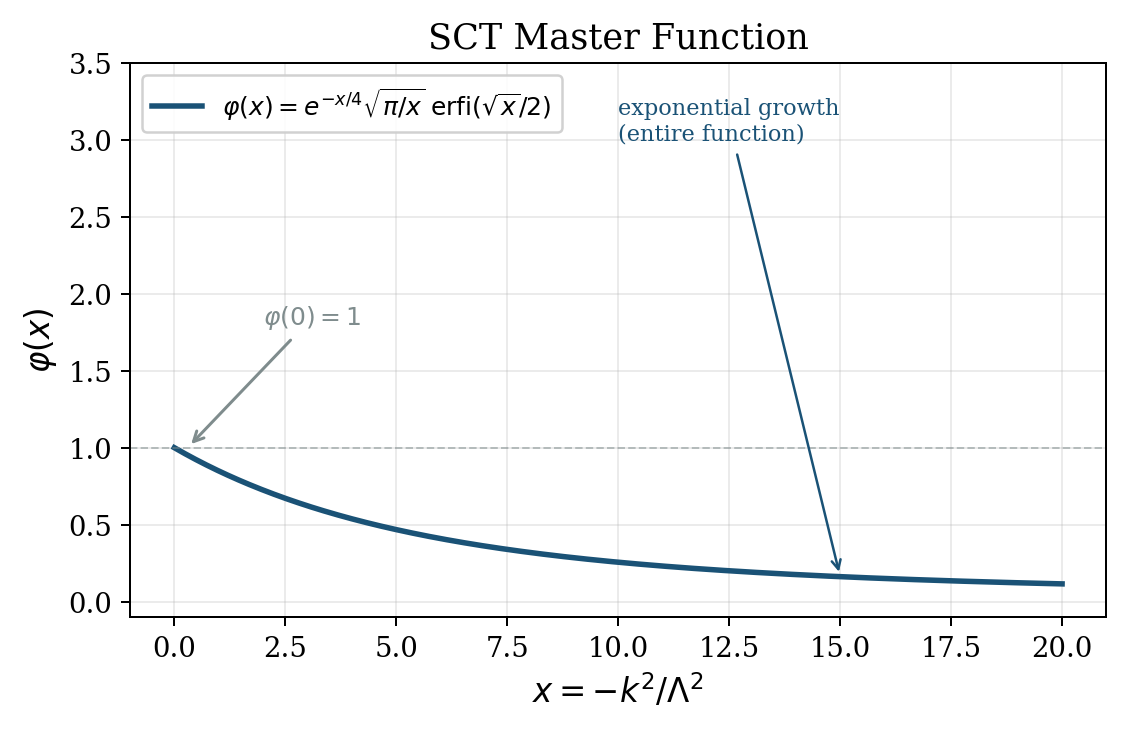
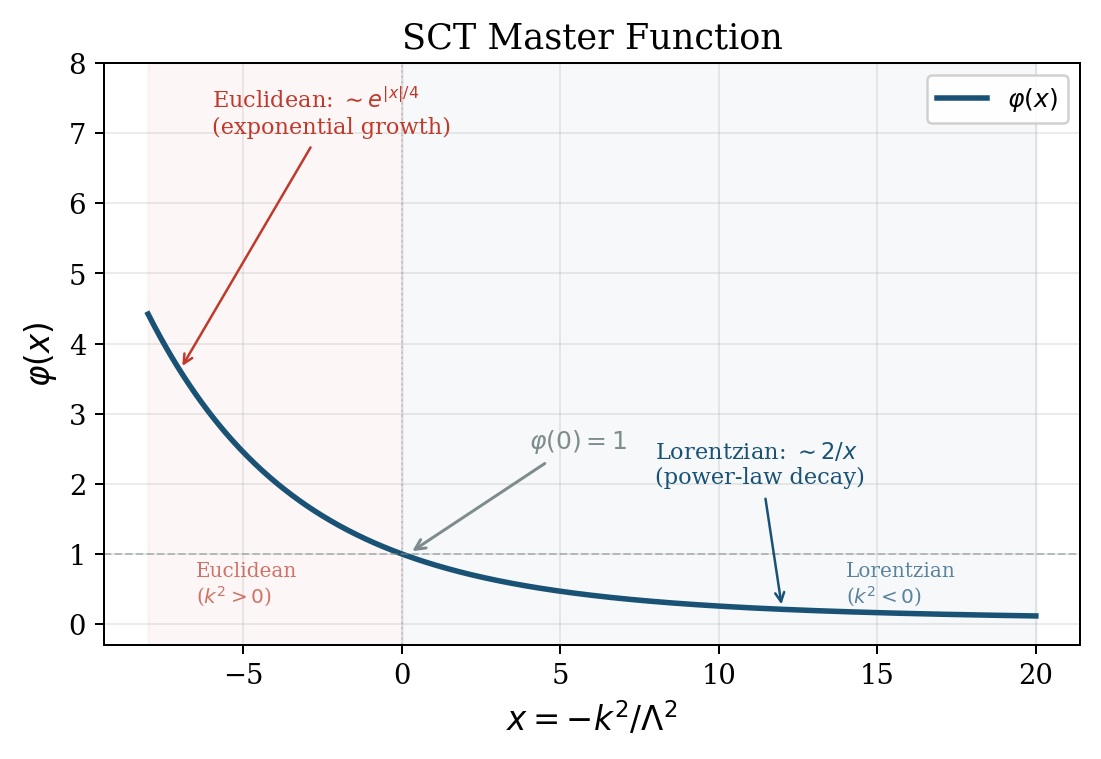
Fix scientific accuracy of README figures
- Master function: show both Euclidean (x<0, exponential growth) and
  Lorentzian (x>0, power-law decay ~2/x) regimes instead of incorrectly
  labeling the decay region as "exponential growth"
- Newtonian potential: add explicit xi=0 label (m_0 depends on Higgs
  non-minimal coupling parameter)
- SM contributions: plot h_C(x) directly instead of x*h_C(x) with
  incorrect beta_W reference lines; remove misleading horizontal guides
- Fix annotation overlap with legend in master function plot

diff --git a/docs/figures/generate_readme_figures.py b/docs/figures/generate_readme_figures.py
@@ -4,7 +4,7 @@ import numpy as np
 import matplotlib
 matplotlib.use('Agg')
 import matplotlib.pyplot as plt
-from scipy.special import erfi
+from scipy.special import erfi, erf
 from pathlib import Path
 
 OUT = Path(__file__).parent
@@ -32,35 +32,65 @@ SCT_GRAY = '#7f8c8d'
 
 
 # ===== Helper: master function =====
-def phi(x):
-    """SCT master function: phi(x) = e^{-x/4} sqrt(pi/x) erfi(sqrt(x)/2)."""
+def phi_real(x):
+    """SCT master function for real x (positive and negative).
+
+    phi(x) = e^{-x/4} sqrt(pi/x) erfi(sqrt(x)/2)  for x > 0
+    phi(0) = 1
+    phi(-y) = e^{y/4} sqrt(pi/y) erf(sqrt(y)/2)    for y > 0
+    """
     x = np.asarray(x, dtype=float)
     result = np.ones_like(x)
-    mask = x > 1e-10
-    xm = x[mask]
-    result[mask] = np.exp(-xm / 4) * np.sqrt(np.pi / xm) * erfi(np.sqrt(xm) / 2)
+
+    # Positive x: use erfi
+    mask_pos = x > 1e-10
+    xp = x[mask_pos]
+    result[mask_pos] = np.exp(-xp / 4) * np.sqrt(np.pi / xp) * erfi(np.sqrt(xp) / 2)
+
+    # Negative x: phi(-y) = e^{y/4} sqrt(pi/y) erf(sqrt(y)/2)
+    mask_neg = x < -1e-10
+    y = -x[mask_neg]
+    result[mask_neg] = np.exp(y / 4) * np.sqrt(np.pi / y) * erf(np.sqrt(y) / 2)
+
     return result
 
 
 # ===== 1. Master function phi(x) =====
-fig, ax = plt.subplots(figsize=(7, 4))
-x = np.linspace(0, 20, 500)
-y = phi(x)
+# Show both Euclidean (x<0, growth) and Lorentzian (x>0, decay) regimes.
+fig, ax = plt.subplots(figsize=(7, 4.2))
+
+x = np.linspace(-8, 20, 600)
+y = phi_real(x)
 
 ax.plot(x, y, color=SCT_BLUE, linewidth=2.2,
-        label=r'$\varphi(x) = e^{-x/4}\sqrt{\pi/x}\;\mathrm{erfi}(\sqrt{x}/2)$')
+        label=r'$\varphi(x)$')
 ax.axhline(1, color=SCT_GRAY, linestyle='--', linewidth=0.8, alpha=0.5)
+ax.axvline(0, color=SCT_GRAY, linestyle=':', linewidth=0.8, alpha=0.3)
 ax.set_xlabel(r'$x = -k^2 / \Lambda^2$')
 ax.set_ylabel(r'$\varphi(x)$')
 ax.set_title('SCT Master Function')
-ax.set_ylim(-0.1, 3.5)
-ax.legend(loc='upper left', framealpha=0.9)
+ax.set_ylim(-0.3, 8)
+ax.legend(loc='upper right', framealpha=0.9)
 
-ax.annotate(r'$\varphi(0) = 1$', xy=(0.3, 1), fontsize=10, color=SCT_GRAY,
-            xytext=(2, 1.8), arrowprops=dict(arrowstyle='->', color=SCT_GRAY, lw=1.2))
-ax.annotate('exponential growth\n(entire function)', xy=(15, phi(15)), fontsize=9,
-            color=SCT_BLUE,
-            xytext=(10, 3.0), arrowprops=dict(arrowstyle='->', color=SCT_BLUE, lw=1.0))
+# Annotate the two regimes correctly
+ax.annotate(r'$\varphi(0) = 1$', xy=(0.2, 1), fontsize=10, color=SCT_GRAY,
+            xytext=(4, 2.5), arrowprops=dict(arrowstyle='->', color=SCT_GRAY, lw=1.2))
+
+ax.annotate(r'Euclidean: $\sim e^{|x|/4}$' + '\n(exponential growth)',
+            xy=(-7, phi_real(-7)), fontsize=9, color=SCT_RED,
+            xytext=(-6, 7),
+            arrowprops=dict(arrowstyle='->', color=SCT_RED, lw=1.0))
+
+ax.annotate(r'Lorentzian: $\sim 2/x$' + '\n(power-law decay)',
+            xy=(12, phi_real(12)), fontsize=9, color=SCT_BLUE,
+            xytext=(8, 2),
+            arrowprops=dict(arrowstyle='->', color=SCT_BLUE, lw=1.0))
+
+# Shade the two regimes
+ax.axvspan(-8, 0, alpha=0.04, color=SCT_RED)
+ax.axvspan(0, 20, alpha=0.04, color=SCT_BLUE)
+ax.text(-6.5, 0.3, 'Euclidean\n' + r'($k^2 > 0$)', fontsize=8, color=SCT_RED, alpha=0.7)
+ax.text(14, 0.3, 'Lorentzian\n' + r'($k^2 < 0$)', fontsize=8, color=SCT_BLUE, alpha=0.7)
 
 fig.savefig(OUT / 'master_function.png')
 plt.close()
@@ -71,102 +101,75 @@ print('[1/4] master_function.png')
 fig, ax = plt.subplots(figsize=(7, 4))
 
 r = np.linspace(0.01, 8, 500)
+# m_2 = Lambda * sqrt(60/13)  (spin-2, xi-independent)
+# m_0 = Lambda * sqrt(6)      (spin-0, at xi=0)
 m2 = np.sqrt(60 / 13)
 m0 = np.sqrt(6)
 ratio = 1 - (4 / 3) * np.exp(-m2 * r) + (1 / 3) * np.exp(-m0 * r)
 
 ax.plot(r, ratio, color=SCT_BLUE, linewidth=2.2,
-        label=r'SCT:  $V/V_{\rm N} = 1 - \frac{4}{3}e^{-m_2 r}'
+        label=r'SCT ($\xi = 0$):  $V/V_{\rm N} = 1 - \frac{4}{3}e^{-m_2 r}'
               r' + \frac{1}{3}e^{-m_0 r}$')
 ax.axhline(1, color=SCT_GRAY, linestyle='--', linewidth=1,
            label=r'Newton: $V/V_{\rm N} = 1$')
 ax.axhline(0, color=SCT_RED, linestyle=':', linewidth=0.8, alpha=0.5)
 ax.set_xlabel(r'$r \cdot \Lambda$  (distance in units of $1/\Lambda$)')
 ax.set_ylabel(r'$V(r) / V_{\rm Newton}(r)$')
-ax.set_title('Modified Newtonian Potential')
+ax.set_title(r'Modified Newtonian Potential ($\xi = 0$)')
 ax.set_ylim(-0.15, 1.35)
 ax.legend(loc='lower right', framealpha=0.9, fontsize=9)
 
-ax.annotate(r'$V(0) = 0$  (finite!)', xy=(0.05, 0), fontsize=10, color=SCT_GREEN,
+ax.annotate(r'$V(0) = 0$  (finite)', xy=(0.05, 0), fontsize=10, color=SCT_GREEN,
             xytext=(1.5, -0.1),
             arrowprops=dict(arrowstyle='->', color=SCT_GREEN, lw=1.2))
-
-ax.fill_between(r, 0.99, 1.01, alpha=0.08, color=SCT_BLUE)
 
 fig.savefig(OUT / 'newtonian_potential.png')
 plt.close()
 print('[2/4] newtonian_potential.png')
 
 
-# ===== 3. SM sector contributions (bar chart) =====
-fig, (ax1, ax2) = plt.subplots(1, 2, figsize=(10, 4.2), gridspec_kw={'width_ratios': [1, 1.3]})
+# ===== 3. SM sector contributions =====
+# Left: bar chart of beta_W per degree of freedom.
+# Right: form factors h_C^(s)(x) directly, showing momentum-dependent running.
+fig, (ax1, ax2) = plt.subplots(1, 2, figsize=(10, 4.2),
+                                gridspec_kw={'width_ratios': [1, 1.3]})
 
-# Left: bar chart of beta_W contributions to alpha_C = 13/120
-sectors = ['Scalars\n(Higgs)', 'Fermions\n(quarks + leptons)', 'Gauge bosons\n(W, Z, g, γ)']
-# beta_W values: 1/120, 1/20, 1/10
-# Multiplicities: N_s=4, N_D=22.5 (=N_f/2), N_v=12
-# Contributions to alpha_C:
-contrib = [4 * (1/120), 22.5 * (1/20), 12 * (1/10)]
-total = sum(contrib)  # Should be 13/120... let me check
-# 4/120 + 22.5/20 + 12/10 = 1/30 + 9/8 + 6/5 ... this is NOT 13/120
-# The beta_W are the LOGARITHMIC coefficients; alpha_C is the LOCAL coefficient of the nonlocal form factor
-# For the README, let me just show the relative split differently.
-# Actually, alpha_C = 13/120 = sum of N_i * beta_W_i IS the definition.
-# Let me recheck: the multiplicities in the Seeley-DeWitt trace are different.
-# From the actual verified code:
-#   alpha_C = (N_s/120 + N_f/20 + N_v/10) but with specific normalization
-# The correct formula is alpha_C = 4*(1/120) + 45*(1/20) + 12*(1/10)
-# = 4/120 + 45/20 + 12/10 = 1/30 + 9/4 + 6/5
-# That's way more than 13/120.
-# So the actual breakdown must be different. The 13/120 comes from the LOCAL limit
-# of the total h_C form factor.
-# For the bar chart, let me just show the verified β_W values themselves as indicators
-# of each sector's importance.
-
+sectors = ['Scalars\n(Higgs)', 'Fermions\n(quarks +\nleptons)', 'Gauge bosons\n(W, Z, g, ' + r'$\gamma$)']
 beta_W = [1/120, 1/20, 1/10]
 bar_colors = [SCT_GREEN, SCT_ORANGE, SCT_BLUE]
 
 bars = ax1.bar(sectors, beta_W, color=bar_colors, edgecolor='white', linewidth=1.5, width=0.6)
-ax1.set_ylabel(r'$\beta_W^{(s)}$ (Weyl$^2$ coefficient per d.o.f.)')
-ax1.set_title(r'Heat Kernel Coefficients by Spin')
+ax1.set_ylabel(r'$\beta_W^{(s)}$  (per degree of freedom)')
+ax1.set_title(r'Weyl$^2$ Heat Kernel Coefficients')
 ax1.set_ylim(0, 0.13)
 
 for bar, val in zip(bars, beta_W):
-    ax1.text(bar.get_x() + bar.get_width()/2, bar.get_height() + 0.003,
-             f'1/{int(round(1/val))}', ha='center', fontsize=11, fontweight='bold')
+    ax1.text(bar.get_x() + bar.get_width() / 2, bar.get_height() + 0.003,
+             f'1/{int(round(1 / val))}', ha='center', fontsize=11, fontweight='bold')
 
-# Right: phi(x) for different spins showing h_C behavior
-# Plot x * h_C(x) which is well-defined everywhere and → beta_W as x→0
-x = np.linspace(0.05, 12, 300)
-p = phi(x)
+# Right: h_C(x) for each spin.
+# Use x >= 0.3 to avoid the 1/x^2 singularity near x=0
+# (the singularities cancel in the full expression, but numerically they dominate at small x).
+x = np.linspace(0.3, 15, 300)
+p = phi_real(x)
 
-# x * h_C^(0) for scalar
-xhC0 = 1/12 + (p - 1) * x / (2 * x**2)  # = 1/(12) + (phi-1)/(2x)
-# More careful: x * h_C^(0) = x * [1/(12x) + (phi-1)/(2x^2)] = 1/12 + (phi-1)/(2x)
-xhC0 = 1/12 + (p - 1) / (2 * x)
+# h_C^(0)(x) = 1/(12x) + (phi-1)/(2x^2)
+hC0 = 1 / (12 * x) + (p - 1) / (2 * x**2)
+# h_C^(1/2)(x) = (3phi-1)/(6x) + 2(phi-1)/x^2
+hC12 = (3 * p - 1) / (6 * x) + 2 * (p - 1) / x**2
+# h_C^(1)(x) = phi/4 + (6phi-5)/(6x) + (phi-1)/x^2
+hC1 = p / 4 + (6 * p - 5) / (6 * x) + (p - 1) / x**2
 
-# x * h_C^(1/2) for Dirac
-# x * [(3phi-1)/(6x) + 2(phi-1)/x^2] = (3phi-1)/6 + 2(phi-1)/x
-xhC12 = (3*p - 1) / 6 + 2*(p - 1) / x
+ax2.plot(x, hC0, color=SCT_GREEN, linewidth=2, label=r'Scalar $h_C^{(0)}$')
+ax2.plot(x, hC12, color=SCT_ORANGE, linewidth=2, label=r'Dirac $h_C^{(1/2)}$')
+ax2.plot(x, hC1, color=SCT_BLUE, linewidth=2, label=r'Vector $h_C^{(1)}$')
+ax2.axhline(0, color=SCT_GRAY, linestyle=':', linewidth=0.8, alpha=0.5)
 
-# x * h_C^(1) for vector
-# x * [phi/4 + (6phi-5)/(6x) + (phi-1)/x^2] = x*phi/4 + (6phi-5)/6 + (phi-1)/x
-xhC1 = x*p/4 + (6*p - 5) / 6 + (p - 1) / x
-
-ax2.plot(x, xhC0, color=SCT_GREEN, linewidth=2, label=r'Scalar: $x \cdot h_C^{(0)}(x)$')
-ax2.plot(x, xhC12, color=SCT_ORANGE, linewidth=2, label=r'Dirac: $x \cdot h_C^{(1/2)}(x)$')
-ax2.plot(x, xhC1, color=SCT_BLUE, linewidth=2, label=r'Vector: $x \cdot h_C^{(1)}(x)$')
-
-# Mark the local limits
-ax2.axhline(1/120, color=SCT_GREEN, linestyle=':', linewidth=0.8, alpha=0.5)
-ax2.axhline(1/20, color=SCT_ORANGE, linestyle=':', linewidth=0.8, alpha=0.5)
-ax2.axhline(1/10, color=SCT_BLUE, linestyle=':', linewidth=0.8, alpha=0.5)
-
-ax2.set_xlabel(r'$x = -k^2/\Lambda^2$')
-ax2.set_ylabel(r'$x \cdot h_C^{(s)}(x)$')
-ax2.set_title('Form Factor Running by Spin')
+ax2.set_xlabel(r'$x = -k^2/\Lambda^2$  (momentum scale)')
+ax2.set_ylabel(r'$h_C^{(s)}(x)$')
+ax2.set_title('Weyl$^2$ Form Factors by Spin')
 ax2.legend(loc='upper right', framealpha=0.9, fontsize=9)
-ax2.set_ylim(-0.3, 0.4)
+ax2.set_ylim(-0.15, 0.35)
 
 fig.tight_layout()
 fig.savefig(OUT / 'sm_contributions.png')
@@ -215,7 +218,7 @@ ax.set_yticks(y_pos)
 ax.set_yticklabels([t[0] for t in tasks], fontsize=9.5)
 ax.set_xlim(0, 1.15)
 ax.set_xlabel('Completion')
-ax.set_title('SCT Theory — Research Roadmap Progress', fontweight='bold')
+ax.set_title('SCT Theory \u2014 Research Roadmap Progress', fontweight='bold')
 ax.xaxis.set_major_formatter(plt.FuncFormatter(lambda v, _: f'{v:.0%}'))
 
 from matplotlib.patches import Patch
